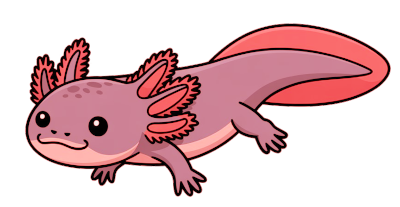
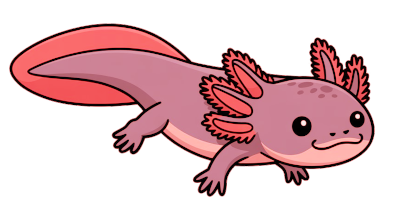
Image sound fixes

diff --git a/assets/aquarium/js/config.js b/assets/aquarium/js/config.js
@@ -32,7 +32,7 @@ window.AQUARIUM_CONFIG = {
     dragonfish:    { src: 'assets/fish/dragonfish.svg',    h: 0.26, aspect: 1.558, speed: 0.100 },
     crab:          { src: 'assets/fish/crab.svg',          h: 0.22, aspect: 1.404, speed: 0.055 },
     seahorse:      { src: 'assets/fish/seahorse.png', h:0.24, aspect: 400/228, speed: 0.065 },
-    axolotl:       { src: 'assets/fish/axolotl.png', h:0.28, aspect: 400/207, speed: 0.080 }
+    axolotl:       { src: 'assets/fish/axolotl.png?2', h:0.28, aspect: 400/207, speed: 0.080 }
   },
 
   items: {

diff --git a/assets/common.js b/assets/common.js
@@ -283,7 +283,7 @@ function save_storage(msg, callback) {
 }
 
 
-const bee_app_version = 463;
+const bee_app_version = 464;
 
 call_local_hook('check_version', []);
 